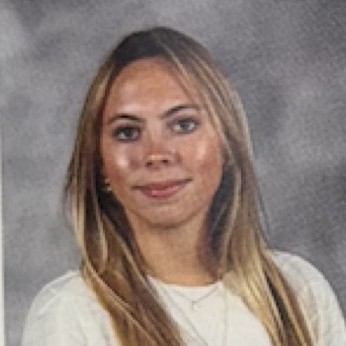
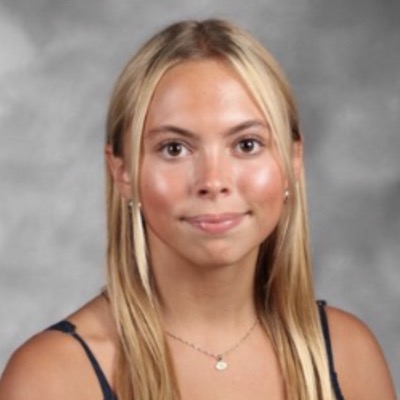
Update Christina Mason's officer headshot

diff --git a/gallery.html b/gallery.html
@@ -9,7 +9,7 @@
 <link rel="preconnect" href="https://fonts.googleapis.com" />
 <link rel="preconnect" href="https://fonts.gstatic.com" crossorigin />
 <link href="https://fonts.googleapis.com/css2?family=EB+Garamond:wght@500;600;700&family=Inter:wght@400;500;600;700&display=swap" rel="stylesheet" />
-<link rel="stylesheet" href="css/styles.css?v=62" />
+<link rel="stylesheet" href="css/styles.css?v=63" />
 </head>
 <body>
 
@@ -62,7 +62,7 @@
   <img src="" alt="" id="lightboxImg" />
 </div>
 
-<script src="js/data.js?v=75"></script>
-<script src="js/main.js?v=63"></script>
+<script src="js/data.js?v=76"></script>
+<script src="js/main.js?v=64"></script>
 </body>
 </html>

diff --git a/index.html b/index.html
@@ -9,7 +9,7 @@
 <link rel="preconnect" href="https://fonts.googleapis.com" />
 <link rel="preconnect" href="https://fonts.gstatic.com" crossorigin />
 <link href="https://fonts.googleapis.com/css2?family=EB+Garamond:wght@500;600;700&family=Inter:wght@400;500;600;700&display=swap" rel="stylesheet" />
-<link rel="stylesheet" href="css/styles.css?v=62" />
+<link rel="stylesheet" href="css/styles.css?v=63" />
 </head>
 <body>
 
@@ -129,7 +129,7 @@
   </div>
 </footer>
 
-<script src="js/data.js?v=75"></script>
-<script src="js/main.js?v=63"></script>
+<script src="js/data.js?v=76"></script>
+<script src="js/main.js?v=64"></script>
 </body>
 </html>

diff --git a/contact.html b/contact.html
@@ -9,7 +9,7 @@
 <link rel="preconnect" href="https://fonts.googleapis.com" />
 <link rel="preconnect" href="https://fonts.gstatic.com" crossorigin />
 <link href="https://fonts.googleapis.com/css2?family=EB+Garamond:wght@500;600;700&family=Inter:wght@400;500;600;700&display=swap" rel="stylesheet" />
-<link rel="stylesheet" href="css/styles.css?v=62" />
+<link rel="stylesheet" href="css/styles.css?v=63" />
 </head>
 <body>
 
@@ -73,7 +73,7 @@
   </div>
 </footer>
 
-<script src="js/data.js?v=75"></script>
-<script src="js/main.js?v=63"></script>
+<script src="js/data.js?v=76"></script>
+<script src="js/main.js?v=64"></script>
 </body>
 </html>

diff --git a/events.html b/events.html
@@ -9,7 +9,7 @@
 <link rel="preconnect" href="https://fonts.googleapis.com" />
 <link rel="preconnect" href="https://fonts.gstatic.com" crossorigin />
 <link href="https://fonts.googleapis.com/css2?family=EB+Garamond:wght@500;600;700&family=Inter:wght@400;500;600;700&display=swap" rel="stylesheet" />
-<link rel="stylesheet" href="css/styles.css?v=62" />
+<link rel="stylesheet" href="css/styles.css?v=63" />
 </head>
 <body>
 
@@ -67,7 +67,7 @@
   </div>
 </footer>
 
-<script src="js/data.js?v=75"></script>
-<script src="js/main.js?v=63"></script>
+<script src="js/data.js?v=76"></script>
+<script src="js/main.js?v=64"></script>
 </body>
 </html>

diff --git a/officers.html b/officers.html
@@ -9,7 +9,7 @@
 <link rel="preconnect" href="https://fonts.googleapis.com" />
 <link rel="preconnect" href="https://fonts.gstatic.com" crossorigin />
 <link href="https://fonts.googleapis.com/css2?family=EB+Garamond:wght@500;600;700&family=Inter:wght@400;500;600;700&display=swap" rel="stylesheet" />
-<link rel="stylesheet" href="css/styles.css?v=62" />
+<link rel="stylesheet" href="css/styles.css?v=63" />
 </head>
 <body>
 
@@ -57,7 +57,7 @@
   </div>
 </footer>
 
-<script src="js/data.js?v=75"></script>
-<script src="js/main.js?v=63"></script>
+<script src="js/data.js?v=76"></script>
+<script src="js/main.js?v=64"></script>
 </body>
 </html>

diff --git a/resources.html b/resources.html
@@ -9,7 +9,7 @@
 <link rel="preconnect" href="https://fonts.googleapis.com" />
 <link rel="preconnect" href="https://fonts.gstatic.com" crossorigin />
 <link href="https://fonts.googleapis.com/css2?family=EB+Garamond:wght@500;600;700&family=Inter:wght@400;500;600;700&display=swap" rel="stylesheet" />
-<link rel="stylesheet" href="css/styles.css?v=62" />
+<link rel="stylesheet" href="css/styles.css?v=63" />
 </head>
 <body>
 
@@ -94,7 +94,7 @@
   </div>
 </footer>
 
-<script src="js/data.js?v=75"></script>
-<script src="js/main.js?v=63"></script>
+<script src="js/data.js?v=76"></script>
+<script src="js/main.js?v=64"></script>
 </body>
 </html>
